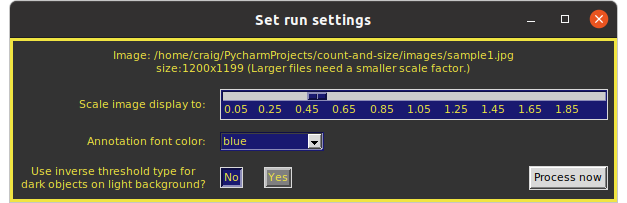
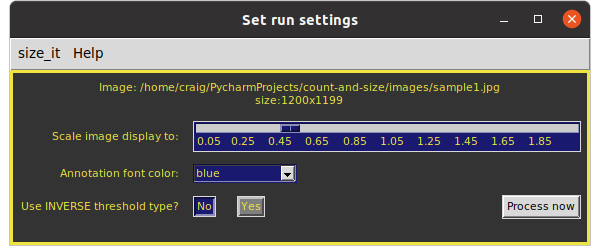
v 0.0.23: Replace Start window buttons with a Menu & add tips

diff --git a/size_it.py b/size_it.py
@@ -723,7 +723,8 @@ class ImageViewer(ProcessImage):
 
         # Take a break in configuring the window to grab the input.
         # For macOS, need to have the filedialog be a child of start_win.
-        self.update()
+        #  Otherwise, this filedialog should be a separate method, but
+        #   didn't want to create a self.start_win attribute just for mac.
         self.input_file = filedialog.askopenfilename(
             parent=start_win,
             title='Select input image',
@@ -756,8 +757,7 @@ class ImageViewer(ProcessImage):
         file_label = tk.Label(
             master=start_win,
             text=f'Image: {self.input_file}\n'
-                 f'size:{self.cvimg["gray"].shape[0]}x{self.cvimg["gray"].shape[1]}'
-                 ' (Larger files need a smaller scale factor.)',
+                 f'size:{self.cvimg["gray"].shape[0]}x{self.cvimg["gray"].shape[1]}',
             **const.LABEL_PARAMETERS)
 
         scale_label = tk.Label(master=start_win,
@@ -784,8 +784,7 @@ class ImageViewer(ProcessImage):
         color_cbox.current(0)  # blue
 
         inverse_label = tk.Label(master=start_win,
-                                 text='Use inverse threshold type for\n'
-                                      'dark objects on light background?',
+                                 text='Use INVERSE threshold type?',
                                  **const.LABEL_PARAMETERS)
         inverse_yes = tk.Radiobutton(master=start_win,
                                      text='Yes',
@@ -805,18 +804,6 @@ class ImageViewer(ProcessImage):
                                         width=0,
                                         command=_call_start)
 
-        about_button = ttk.Button(master=start_win,
-                                  text='About',
-                                  style='My.TButton',
-                                  width=0,
-                                  command=lambda: utils.about(parent=start_win))
-
-        quit_button = ttk.Button(master=start_win,
-                                 text='Quit',
-                                 style='My.TButton',
-                                 width=0,
-                                 command=lambda: utils.quit_gui(mainloop=app))
-
         # Window grid settings; sorted by row.
         padding = dict(padx=6, pady=6)
 
@@ -832,10 +819,39 @@ class ImageViewer(ProcessImage):
         inverse_label.grid(row=3, column=0, **padding, sticky=tk.E)
         inverse_no.grid(row=3, column=1, **padding, sticky=tk.W)
         inverse_yes.grid(row=3, column=1, padx=(50, 0), sticky=tk.W)
+        process_now_button.grid(row=3, column=1, **padding, sticky=tk.E)
 
-        process_now_button.grid(row=4, column=1, **padding, sticky=tk.W)
-        quit_button.grid(row=4, column=1, **padding, sticky=tk.E)
-        about_button.grid(row=4, column=1, padx=(0, 50), sticky=tk.E)
+        # Create menu instance and add pull-down menus.
+        menubar = tk.Menu(master=start_win,)
+        start_win.config(menu=menubar)
+
+        os_accelerator = 'Command' if const.MY_OS == 'dar' else 'Ctrl'
+        file = tk.Menu(self.master, tearoff=0)
+        menubar.add_cascade(label=f'{Path(__file__).stem}', menu=file)
+        file.add_command(label='Process now',
+                         command=_call_start,
+                         accelerator='Enter/Return')
+        file.add_command(label='Quit',
+                         command=lambda: utils.quit_gui(app),
+                         # macOS doesn't recognize 'Command+Q' as an accelerator
+                         #   b/c cannot override that system's native Command-Q,
+                         accelerator=f'{os_accelerator}+Q')
+
+        help_menu = tk.Menu(master=start_win, tearoff=0)
+        tips = tk.Menu(master=start_win, tearoff=0)
+        menubar.add_cascade(label='Help', menu=help_menu)
+        help_menu.add_cascade(label='Tips...', menu=tips)
+        # Bullet symbol from https://coolsymbol.com/, unicode_escape: u'\u2022'
+        tips.add_command(label='• Larger image files need a smaller scale factor')
+        tips.add_command(label='     ...to fit image windows on the screen.')
+        tips.add_command(label='• Use a lighter font color with darker objects.')
+        tips.add_command(label='• Use the INVERSE threshold type for')
+        tips.add_command(label='     ...dark objects on a light background.')
+        tips.add_command(label='• Enter or Return key starts processing.')
+        tips.add_command(label='• More Tips are in the README file.')
+        tips.add_command(label='• Esc or Ctrl-Q from any window exits the program.')
+        help_menu.add_command(label='About',
+                              command=lambda: utils.about(parent=start_win))
 
     def start_now(self) -> None:
         """
@@ -1763,7 +1779,7 @@ class ImageViewer(ProcessImage):
         tab = " " * space
 
         # Divider symbol is Box Drawings Double Horizontal from https://coolsymbol.com/
-        divider = "═" * 20  # divider's unicode_escape: b'\\u2550\'
+        divider = "═" * 20  # divider's unicode_escape: u'\u2550\'
 
         self.size_settings_txt = (
             f'Image: {self.input_file} {px_h}x{px_w}\n\n'

diff --git a/utility_modules/__init__.py b/utility_modules/__init__.py
@@ -4,7 +4,7 @@ These constants are used with the --about command line argument or button.
 
 # Development status standards: https://pypi.org/classifiers/
 __author__ = 'Craig S. Echt'
-__version__: str = '0.0.22'
+__version__: str = '0.0.23'
 __status__ = 'Development Status :: 3 - Alpha'
 __copyright__ = 'Copyright (C) 2023 C.S. Echt, under GNU General Public License'
 __license__ = """
